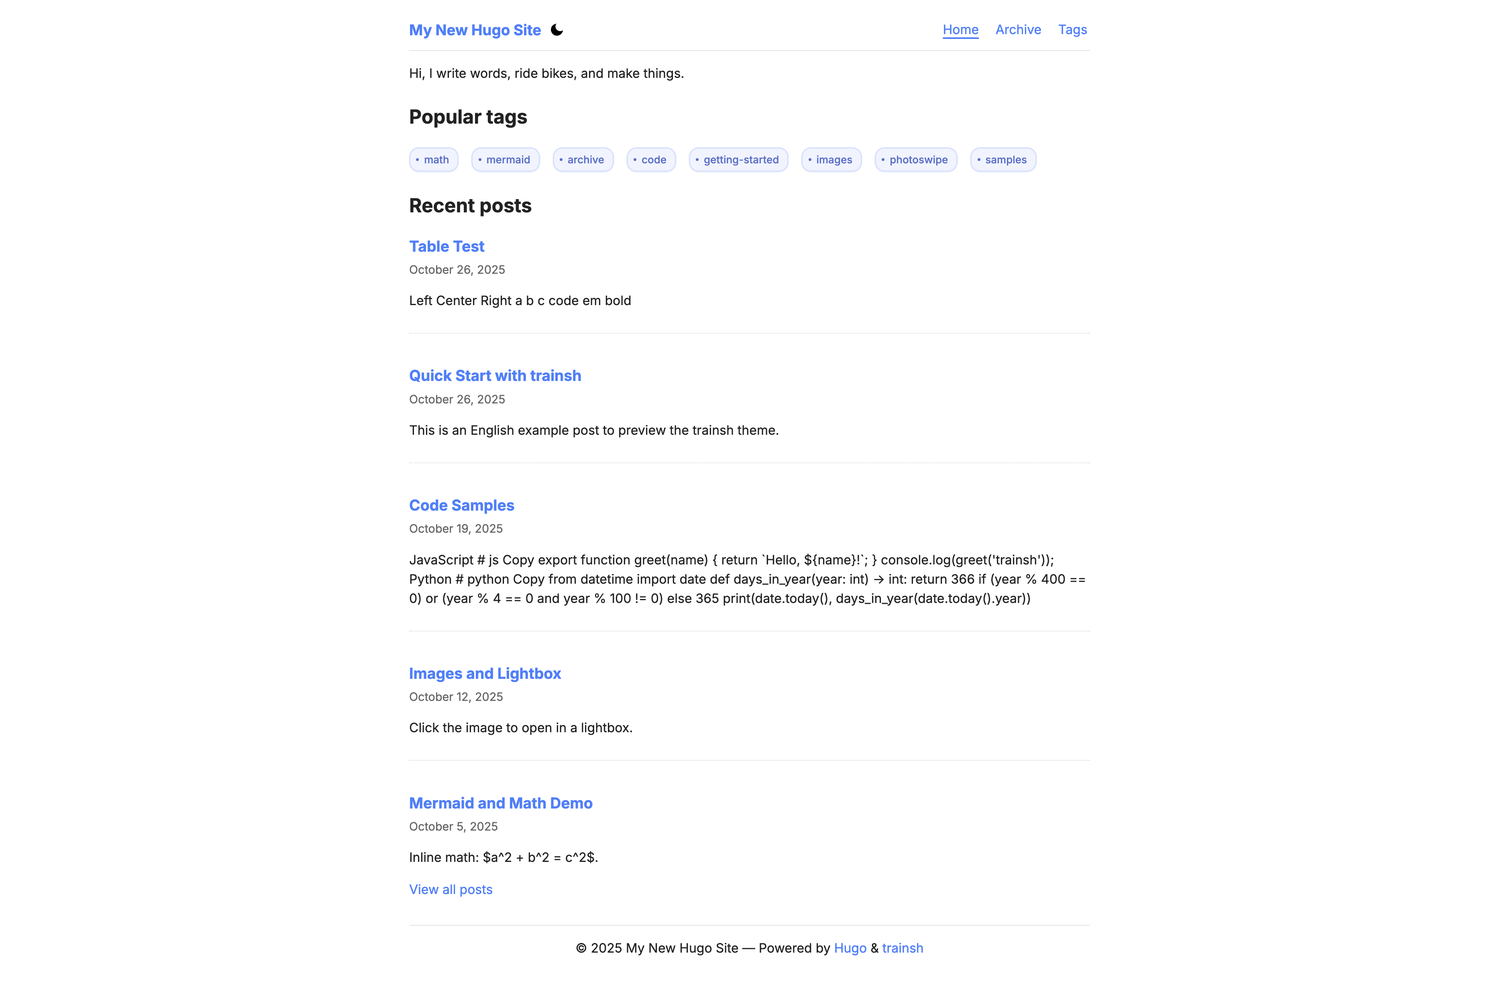
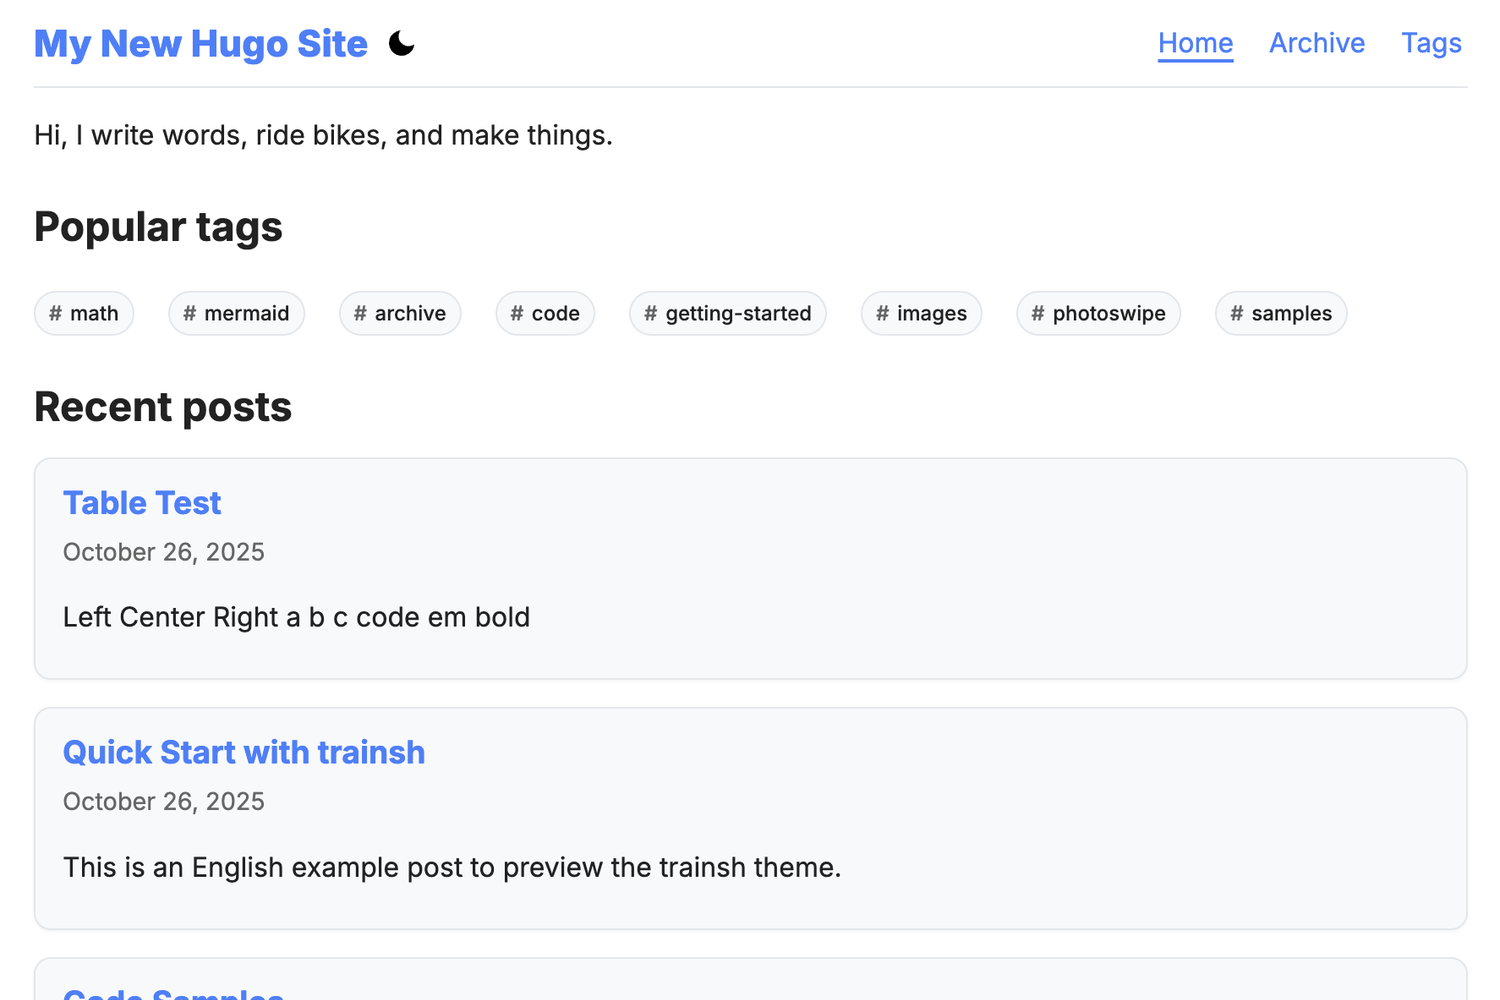
Refactor taxonomy layout, post card styling, site title, TOC font and caption font.

diff --git a/assets/css/main.css b/assets/css/main.css
@@ -156,8 +156,9 @@ html[data-theme="dark"] {
   html[data-theme="dark"] .archive-header input[type="search"] { background: #0b0d12; color: var(--fg); border-color: var(--border); }
 
   .brand {
-    font-weight: 700;
-    font-size: 1.15rem;
+    font-weight: 800;
+    font-size: 1.35rem;
+    letter-spacing: 0.01em;
   }
 
   .site-nav {
@@ -278,7 +279,6 @@ html[data-theme="dark"] {
   .toc-nav ul {
     list-style: none;
     padding-left: 0;
-    font-size: 0.875rem;
   }
 
   .toc-nav li {
@@ -303,10 +303,6 @@ html[data-theme="dark"] {
   .toc-dropdown {
     display: none;
     margin: 1rem 0 1rem;
-  }
-
-  .toc-dropdown ul {
-    font-size: 0.875rem;
   }
 
   .toc-dropdown a {
@@ -491,12 +487,21 @@ html[data-theme="dark"] {
     margin: 1.5rem 0;
   }
 
+  /* Tag container spacing below meta/date */
+  .post-tags {
+    margin: 0.25rem 0 0.5rem;
+  }
+
   .tag-list {
     list-style: none;
     padding-left: 0;
+    margin: 0;
     display: flex;
     flex-wrap: wrap;
-    gap: 0.4rem 0.6rem;
+    gap: 0.6rem 0.9rem;
+  }
+  @media (min-width: 768px) {
+    .tag-list { gap: 0.75rem 1rem; }
   }
 
   .tag-list li {
@@ -514,108 +519,64 @@ html[data-theme="dark"] {
     display: inline-flex;
     align-items: center;
     position: relative;
-    padding: 0.35rem 0.75rem;
-    padding-left: 0.5rem;
-    color: #5570cd;
-    font-size: 0.875rem;
+    padding: 0.3rem 0.6rem;
+    color: var(--fg);
+    font-size: 0.8125rem;
     font-weight: 500;
     text-decoration: none;
-    background: #f0f4ff;
-    border: 1.5px solid #d4e0ff;
-    border-radius: 12px;
-    transition: all 0.2s ease;
-    margin-right: 0.4rem;
-    box-shadow: 0 1px 2px rgba(85, 112, 205, 0.08);
+    background: var(--surface);
+    border: 1px solid var(--border);
+    border-radius: 999px;
+    transition: background 0.2s ease, border-color 0.2s ease, color 0.2s ease;
+    margin-right: 0.25rem;
+    box-shadow: none;
   }
 
-  /* 左侧装饰点 */
+  /* Prefix '#' for visual cue */
   .tag-chip::before {
-    content: "";
+    content: "#";
     display: inline-block;
-    width: 4px;
-    height: 4px;
-    background: #5570cd;
-    border-radius: 50%;
-    margin-right: 0.5rem;
+    margin-right: 0.35rem;
+    color: var(--muted);
+    font-weight: 600;
+    line-height: 1;
     flex-shrink: 0;
   }
 
   .tag-chip:hover {
-    color: #3d4d8a;
-    background: #e8efff;
-    border-color: #b8ceff;
-    transform: translateY(-1px);
-    box-shadow: 0 3px 8px rgba(85, 112, 205, 0.15);
+    background: var(--hover-bg);
+    border-color: var(--border);
+    color: var(--fg);
   }
 
   .tag-chip:hover::before {
-    background: #3d4d8a;
+    color: var(--fg);
   }
 
-  .tag-chip:active {
-    transform: translateY(0);
-  }
+  .tag-chip:active { }
 
   .tag-chip .count,
   .tag-chip .tag-count {
     display: none;
   }
 
-  .post-tags .label {
-    margin-right: 0.5rem;
-    color: #666;
-    font-size: 0.9em;
-  }
-
   /* small variant */
   .tag-chip.tag-sm {
-    padding: 0.25rem 0.65rem;
-    padding-left: 0.45rem;
-    font-size: 0.8125rem;
+    padding: 0.2rem 0.5rem;
+    font-size: 0.75rem;
   }
 
   .tag-chip.tag-sm::before {
-    width: 3.5px;
-    height: 3.5px;
-    margin-right: 0.4rem;
+    margin-right: 0.3rem;
   }
 
-  /* Dark mode tag styling */
-  html[data-theme="dark"] .tag-chip {
-    background: #2a2d3a;
-    border-color: #404552;
-    color: #a8b2ff;
-    box-shadow: 0 1px 2px rgba(0, 0, 0, 0.15);
-  }
-
-  html[data-theme="dark"] .tag-chip::before {
-    background: #a8b2ff;
-  }
-
-  html[data-theme="dark"] .tag-chip:hover {
-    background: #363a4a;
-    border-color: #4d5265;
-    color: #c5ccff;
-    box-shadow: 0 3px 8px rgba(0, 0, 0, 0.25);
-  }
-
-  html[data-theme="dark"] .tag-chip:hover::before {
-    background: #c5ccff;
-  }
+  /* Dark mode uses CSS variables above */
 
   .home-recent h2 {
     margin-bottom: 0.75rem;
   }
 
-  .home-recent article {
-    margin: 0;
-  }
-
-  .home-recent article + article {
-    margin-top: 1.75rem;
-    padding-top: 1.25rem;
-    border-top: 1px dotted #d5dbe1;
-  }
+  
 
   .post-meta {
     color: var(--muted);
@@ -628,25 +589,35 @@ html[data-theme="dark"] {
     margin-bottom: 0.25rem;
   }
 
-  /* Tighten space between list item title and date */
-  .home-recent article h3,
-  .term-posts article h3 {
-    margin-bottom: 0.25rem;
+  /* Normalize heading spacing inside cards */
+  .post-card h3 {
+    margin: 0 0 0.25rem;
   }
+
+  /* Prevent extra outer whitespace from child margins */
+  .post-card > :first-child { margin-top: 0; }
+  .post-card > :last-child  { margin-bottom: 0; }
 
   .home-recent .more {
     margin-top: 1rem;
   }
 
-  /* Term page post separators */
-  .term-posts article {
-    margin: 0;
+  /* Card-style list items */
+  .post-card {
+    padding: 1rem 1rem 2rem;
+    border: 1px solid var(--border);
+    border-radius: 10px;
+    background: var(--surface);
+    box-shadow: 0 1px 2px rgba(0, 0, 0, 0.04);
   }
 
-  .term-posts article + article {
-    margin-top: 1.75rem;
-    padding-top: 1.25rem;
-    border-top: 1px dotted #d5dbe1;
+  .post-card + .post-card {
+    margin-top: 1rem;
+  }
+
+  /* Taxonomy terms page spacing */
+  .taxonomy-terms {
+    margin-top: 0.5rem;
   }
 
   /* Lightbox affordances */
@@ -664,6 +635,40 @@ html[data-theme="dark"] {
   video {
     max-width: 100%;
     height: auto;
+  }
+
+  /* Center standalone media inside content */
+  article.content p > img:only-child,
+  article.content p > video:only-child {
+    display: block;
+    margin: 0.5rem auto;
+  }
+  /* Center lightbox-linked images */
+  article.content p > a[data-pswp-width]:only-child {
+    display: inline-block;
+    margin-left: auto;
+    margin-right: auto;
+  }
+  article.content figure {
+    margin-left: auto;
+    margin-right: auto;
+    text-align: center;
+  }
+  article.content figure > img,
+  article.content figure > a > img,
+  article.content figure > video {
+    display: block;
+    margin-left: auto;
+    margin-right: auto;
+  }
+
+  /* Media captions */
+  article.content figure > figcaption,
+  article.content .caption {
+    margin-top: 0.4rem;
+    text-align: center;
+    font-weight: 700;
+    font-style: italic;
   }
 
   /* Code blocks: CSS counter-based line numbers */

diff --git a/layouts/_partials/terms.html b/layouts/_partials/terms.html
@@ -1,27 +1,20 @@
 {{- /*
-For a given taxonomy, render assigned terms as tag chips.
+For a given taxonomy, render assigned terms as small tag chips.
 
 @context {page} page        The current page
 @context {string} taxonomy  The taxonomy key (e.g. "tags")
-@context {bool} showLabel   Optional; show label (default true)
-@context {bool} small       Optional; render small chip variant (default false)
 
 @example: {{ partial "terms.html" (dict "taxonomy" "tags" "page" .) }}
 */}}
 
 {{- $page := .page }}
 {{- $taxonomy := .taxonomy }}
-{{- $showLabel := cond (isset . "showLabel") (index . "showLabel") (ne $page.Kind "page") -}}
-{{- $small := cond (isset . "small") (index . "small") false -}}
-
 {{- with $page.GetTerms $taxonomy }}
-  {{- $label := (index . 0).Parent.LinkTitle }}
   <div class="post-tags">
-    {{- if $showLabel }}<div class="label">{{ $label }}:</div>{{ end }}
     <ul class="tag-list">
       {{- range .ByLinkTitle }}
         <li>
-          <a class="tag-chip{{ if $small }} tag-sm{{ end }}" href="{{ .RelPermalink }}">{{ .LinkTitle | lower | replaceRE "\\s+" "-" }}</a>
+          <a class="tag-chip tag-sm" href="{{ .RelPermalink }}">{{ .LinkTitle | lower | replaceRE "\\s+" "-" }}</a>
         </li>
       {{- end }}
     </ul>

diff --git a/layouts/taxonomy.html b/layouts/taxonomy.html
@@ -1,12 +1,14 @@
 {{ define "main" }}
-  <h1>{{ .Title }}</h1>
-  {{ .Content }}
+  <section class="taxonomy-terms">
+    <h1>{{ .Title }}</h1>
+    {{ .Content }}
 
-  <ul class="tag-list">
-    {{ range .Data.Terms.Alphabetical }}
-      <li>
-        <a class="tag-chip tag-sm" href="{{ .Page.RelPermalink }}">{{ .Page.LinkTitle | lower | replaceRE "\\s+" "-" }}</a>
-      </li>
-    {{ end }}
-  </ul>
+    <ul class="tag-list">
+      {{ range .Data.Terms.Alphabetical }}
+        <li>
+          <a class="tag-chip tag-sm" href="{{ .Page.RelPermalink }}">{{ .Page.LinkTitle | lower | replaceRE "\\s+" "-" }}</a>
+        </li>
+      {{ end }}
+    </ul>
+  </section>
 {{ end }}

diff --git a/layouts/_default/single.html b/layouts/_default/single.html
@@ -18,7 +18,7 @@
       {{ partial "toc/dropdown.html" (dict "page" . "toc" $toc) }}
 
       {{ .Content }}
-      {{ partial "terms.html" (dict "taxonomy" "tags" "page" . "showLabel" false) }}
+      {{ partial "terms.html" (dict "taxonomy" "tags" "page" .) }}
     </article>
   </div>
   {{ else }}
@@ -26,7 +26,7 @@
     <h1>{{ .Title }}</h1>
     {{ partial "post/date.html" . }}
     {{ .Content }}
-    {{ partial "terms.html" (dict "taxonomy" "tags" "page" . "showLabel" false) }}
+    {{ partial "terms.html" (dict "taxonomy" "tags" "page" .) }}
   </article>
   {{ end }}
 {{ end }}

diff --git a/layouts/_partials/post/summary.html b/layouts/_partials/post/summary.html
@@ -1,7 +1,7 @@
-<article>
+<article class="post-card">
   <h3><a href="{{ .RelPermalink }}">{{ .LinkTitle }}</a></h3>
   {{ partial "post/date.html" . }}
-  {{ partial "terms.html" (dict "taxonomy" "tags" "page" . "showLabel" false "small" true) }}
+  {{ partial "terms.html" (dict "taxonomy" "tags" "page" .) }}
   {{ $firstP := (findRE "<p>.*?</p>" .Content 1) }}
   {{ with index $firstP 0 }}
     {{ . | safeHTML }}

diff --git a/layouts/_partials/post/summary-no-tags.html b/layouts/_partials/post/summary-no-tags.html
@@ -1,4 +1,4 @@
-<article>
+<article class="post-card">
   <h3><a href="{{ .RelPermalink }}">{{ .LinkTitle }}</a></h3>
   {{ partial "post/date.html" . }}
   {{ $firstP := (findRE "<p>.*?</p>" .Content 1) }}
